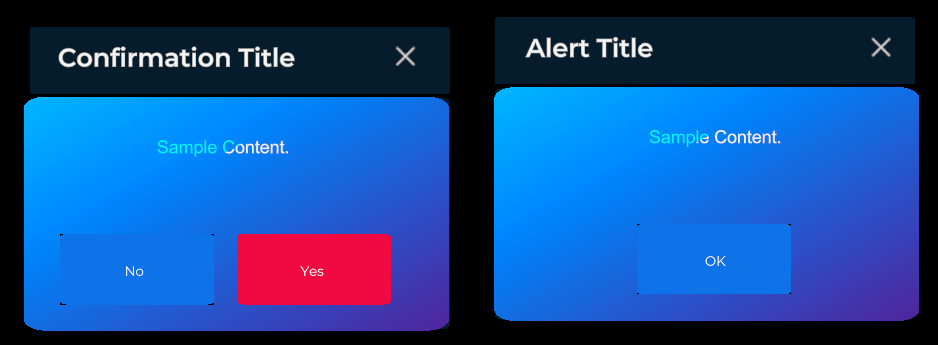
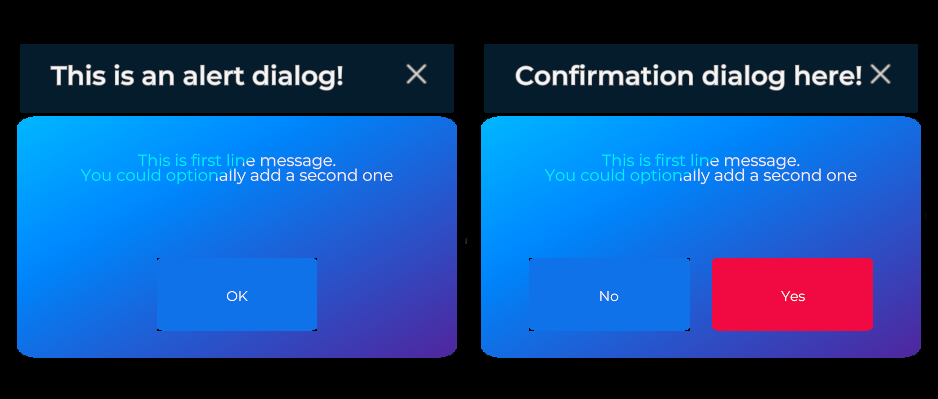
Completed Windows System documentation

diff --git a/manual/addons/xrv/ui/windows_system.md b/manual/addons/xrv/ui/windows_system.md
@@ -1,119 +1,217 @@
 # Windows System
 
-One of the main features that XRV offers is windows system. With windows system you can raise customizable Dialogs to inform the user or offer options.
+One of the main features that XRV offers is the _Windows System_, that helps you with built-in windows which contents can be customized by your own. It also includes built-in 
+alert and confirmation dialogs, that you can include within your UI logic to notify or ask for confirmation to application users, and execute some logic or another based on their decisions.
 
-![dialogs snapshot](images/windows_system_dialogs.png)
+![dialogs snapshot](images/windows_system_main.jpg)
 
-Windows system manages this dialogs and offer an uniform view and uniform use, for user supervised information.
+## Windows interaction
 
-You can also use windows system to create a window like view of your content, with all the functionalities, like close window or follow behavior.
+When a window is created, it will include some default buttons that allows users to modify window behavior or visibility.
+- Window position behavior can be changed, you can choose how window is placed relative to the user. To change position mode, just use window button to toggle between following behaviors:
+    - ![window follow](images/follow.png) Follow mode: window will follow the user wherever he moves if he goes away by a distance higher than 0.6 meters. In this mode, window will also change its orientation to face the user if he moves around.
+    - ![window pin](images/pin.png) Pinned mode: when switched to this mode, window will stay in the position and orientation that button has when pressed. In this mode, user can also manipulate position and orientation of the window, using pinch gesture on surface area of the window, including both title bar and contents area.
+- Press ![window close](images/close.png) to close the window.
 
-![help window](images/windows_system_help.png)
+## Create and show a window programmatically
 
-## Methods
-
-Windows system provides methods for create windows
-
-| Methods             | Description                                                                             |
-| ------------------- | --------------------------------------------------------------------------------------- |
-| `ShowAlertDialog`   | Shows alert dialog with title, content and text for the close button.                   |
-| `ShowConfirmDialog` | Shows a confirmation dialog with title, content and personalized text for yes/no button |
-| `CreateWindow`      | Shows a window with content.                                                            |
-
-| Properties  | Description                                                         |
-| ----------- | ------------------------------------------------------------------- |
-| `Distances` | You can set distance in meters where you want the window to appear. |
-
-## Examples
-
-### Get windows system anywhere
-
-Get windows system anywhere
+To create a window, you can do it accessing _Windows System_ that is exposed by _XrvService_. This window creation have a callback to configure the window, with different options that we will enumerate in section below. You can create as many windows as you want.
 
 ```csharp
-var windowSystem = Application.Current.Container.Resolve<XrvService>().WindowSystem;
-```
+var xrv = Application.Current.Container.Resolve<XrvService>();
+var windowSystem = xrv.WindowSystem;
 
-### Get Windows System in component
-
-````csharp
-[BindService]
-private XrvService xrvService = null;
-
-private windowSystem =>  xrvService.WindowSystem;
-```
-### Alert Dialog
-
-```csharp
-// create alert dialog
-var alertDelete = this.xrvService.WindowSystem.ShowAlertDialog("Alert Title", "Sample Content.", "OK");
-// Show dialog
-alertDelete.Open();
-````
-
-### Confirmation Dialog
-
-Show a confirmation dialog where we want the user to take a decision.
-
-```csharp
-// Create confirmation dialog
-var confirmDelete = this.xrvService.WindowSystem.ShowConfirmDialog("Confirmation Title", "Sample Content.", "No", "Yes");
-// Show dialog
-confirmDelete.Open();
-// Get Close event
-dialog.Closed += this.Dialog_Closed;
-```
-
-Now implement actions on decision.
-
-```csharp
-private async void Dialog_Closed(object sender, EventArgs e)
+// Setting Window
+var window = xrv.WindowSystem.CreateWindow(config =>
 {
-    var dialog = sender as ConfirmDialog;
-    dialog.Closed -= this.Dialog_Closed; // Remove callback.
-
-    if (dialog.Result != ConfirmDialog.AcceptKey)
-    {
-        // Accept action
-    }
-    else
-    {
-        // Reject  action
-    }
-}
-```
-
-### Window with content
-
-We have some content (entity) we want to appear inside a window.
-
-```csharp
- // Setting Window
-var window = this.xrv.WindowSystem.CreateWindow((config) =>
-{
-    config.Title = "Title"; // title for window
-    config.Size = new Vector2(150,70); // width height in meters
-    config.DisplayFrontPlate = false; // shows backplate
-    config.DisplayLogo = false; // shows logo
-    config.Content = entity; // content
+    config.Title = "Window #1";
+    config.Size = new Vector2(0.3, 0.2);
 });
 
-// Show window
+// Show window (empty in this case)
 window.Open();
 ```
 
-### Custom Distance
+Windows include different built-in parts and layers:
+- Title bar: this is on the top of the window, also contains action buttons on right side of the window.
+- Back plate: it has the same material than title bar, and the unique content that it includes is an optional logo image.
+- Front plate: it will be drawn over back plate, and is intended to be placed behind window contents.
 
-You want a window that appears at 0.5 meters in front of the user, we are going to need a to add a key to distances, for example "custom"
+![dialogs snapshot](images/windows_system_window_parts.jpg)
+
+### Window instance options
+Each window instance that is returned by _Windows System_ offers a set of options that developers can change by their own criteria. You can also open or close any window programmatically or subscribe to events about that window being opened or closed.
+
+| Properties             | Description                                                                             |
+| ------------------- | --------------------------------------------------------------------------------------- |
+| `AllowPin`   | If this option is disabled, default toggle button to let user change window positioning behavior that we commented above, will not be available for a window instance. |
+| `DistanceKey`   | This lets developers to specify the distance key that will be used to place window once opened. |
+| `EnableManipulation`   | When set to false, this option will not let users to change window orientation and positioning when pinned mode is active. |
+
+| Methods             | Description                                                                             |
+| ------------------- | --------------------------------------------------------------------------------------- |
+| `Open`   | Opens window instance. |
+| `Close`   | Closes window instance. |
+
+| Events             | Description                                                                             |
+| ------------------- | --------------------------------------------------------------------------------------- |
+| `Opened`   | It occurs when window instance is opened. |
+| `Close`   | It occurs when window instance is closed. |
+
+### Window instance configuration
+
+On configuration callback, you can use following properties to change how window is displayed.
+
+| Properties             | Description                                                                             |
+| ------------------- | --------------------------------------------------------------------------------------- |
+| `Content`   | This property lets you to set an entity that will be placed as window contents. Here you can set whatever you want: buttons, 3D text, images, etc. We will talk later about what is the easier way to layout your windows contents and how to set up window parameters like size to fits its contents. |
+| `DisplayFrontPlate`   | Front plate can be optionally hidden using this flag. |
+| `DisplayBackPlate`   | Back plate can be optionally hidden using this flag. |
+| `DisplayLogo`   | Controls logo visibility for the window. This image is located in bottom-left corner of the back plate. |
+| `FrontPlateOffsets`   | XY front plane offset relative to window back plate. |
+| `FrontPlateSize`   | Front plate width and height in meters. |
+| `LocalizedTitle`   | Lets you to specify callback function to set a [localized title](../localization.md) for the window. |
+| `LogoMaterial`   | To change default logo image, you can set your own material here. |
+| `Size`   | You can set window width and height in meters. |
+| `Title`   | Lets you to specify a fixed title string to your window. |
+
+
+### How-to: create own window with contents
+If you want to create your own window, you should first know the size of its contents, but calculating this manually could be tricky. We are going to quickly explain the steps we follow in this case.
+
+1. Create a new scene, that will contain your window contents. Window contents will be then exported to a prefab that will be loaded as window contents.
+2. Create a new mesh with _BorderlessFrontPlate_ material. This plane will be a help guide just to know how contents will fit in final window.
+3. Set _PlaneMesh_ width and height with desired size. 
+![windows how-to](images/windows_system_how-to.png)
+4. Create your window layout.
+5. Create a prefab from your contents entity. Do not include guide reference in the prefab, just _Painter_ entity in this case. Remember that you should not save your changes after creating the prefab.
+6. Instantiate your window from code, and set its size with same values as your reference.
 
 ```csharp
- // Add distance to Distances
-this.windowsSystem.Distances.SetDistance("custom", 0.5f);
+var contentsSize = new Vector2(0.214f, 0.173f);
+var window = windowsSystem.CreateWindow(config => 
+{
+    config.Size = contentsSize;
+    config.FrontPlateSize = contentsSize;
+    config.Content = this.assetsService.Load<Prefab>(<Prefab GUID here>).Instantiate();
+});
 ```
 
-Now configure the window to open with this distance key
+## Built-in dialogs
+
+_XRV_ also offers two built-in dialog types that you can use to request a user action before making a decision. An important thing here
+is that, unlike windows creation, there could only be a single instance of alert or confirmation dialog at the same time in the application. We limit this to
+avoid dialog stacks that would make users uncomfortable while using the application.
+
+- Alert dialog: this may be used to alert user about anything that happens while using the application, but where the user can choose no option, just confirm the dialog. 
+- Confirmation dialog: in this case, we can use this type of dialog to ask user for confirmation about an action, for example, removing a 3D model from virtual space.
+
+Here you have an example of how use _Windows System_ to show an alert or confirmation dialog.
 
 ```csharp
+var dialog = windowsSystem.ShowConfirmationDialog(...); // or ShowAlertDialog
+dialog.Closed += Dialog_Closed;
+
+private void Dialog_Closed(object sender, EventArgs e)
+{
+    if (dialog is ConfirmDialog confirm)
+    {
+        dialog.Closed -= this.Dialog_Closed;
+
+        if (confirm.Result == confirm.AcceptOption.Key)
+        {
+            // Do something only if user taps on accept option            
+        }
+    }
+}
+```
+In the sample, you can notice that we are subscribing to _Closed_ event. This is safe as long as you do event unsubscription in callback method, as we only allow a single dialog opened at the time. This means, if we have other part of the code that has already opened a dialog an is waiting for the response, this new dialog opening will provoke _Closed_ event to be invoked for that previously executed code.
+
+_XRV_ dialogs have a property named _Result_ that you can check to know which button has been pressed by the user.
+
+**Alert dialog**
+
+| Result value             | It                                                                             |
+| ------------------- | --------------------------------------------------------------------------------------- |
+| AlertDialog.AcceptKey | When user presses dialog _Accept_ button. |
+| _null_ | When user presses dialog _Close_ button, or other part of the code invokes _ShowAlertDialog_. |
+
+**Confirmation dialog**
+
+| Result value             | It                                                                             |
+| ------------------- | --------------------------------------------------------------------------------------- |
+| ConfirmationDialog.AcceptKey | When user presses dialog _Accept_ button. |
+| ConfirmationDialog.CancelKey | When user presses dialog _Cancel_ button. |
+| _null_ | When user presses dialog _Close_ button, or other part of the code invokes _ShowConfirmationDialog_. |
+
+## Other things that you can do with _Windows System_
+_Windows System_ instance also provide two properties that may be helpful for developers:
+
+| Properties             | Description                                                                             |
+| ------------------- | --------------------------------------------------------------------------------------- |
+| `Distances`   | You can register or modify predefined window distances. |
+| `OverrideIconMaterial`   | This property allows to you to set a custom Material that will override default window logo material. So, you don't need to go instance by instance replacing default logo material. |
+
+### Window distances definition
+_XRV_ provides a set of predefined window distances, but you can add as many as you want to your application.
+
+| Distance key            | Value (in meters) | Usage                                                           |
+| ------------------- | --------------------------------------------------------------------------------------- |
+| `NearKey`   | 0.4 | This is the distance used by default for alert and confirmation dialogs. |
+| `MediumKey`   | 0.6 | This is the distance used by default for rest of the windows. |
+| `FarKey`   | 1 | This is not used at all by built-in elements of _XRV_ but you can use it by your own purpose. |
+
+To override or add a new distance, you can use _SetDistance_ method.
+
+```csharp
+// override an existing key
+windowsSystem.Distances.SetDistance(Xrv.Core.UI.Windows.Distances.NearKey, 0.45f);
+
+// adding a new key
+windowsSystem.Distances.SetDistance("custom", 0.5f);
+
+// use distance key in a window
 window.DistanceKey = "custom";
-window.Open(); // Window will open at distance 0.5 meters from headset
+```
+
+## Examples
+
+### Get Windows System in component
+
+```csharp
+public MyComponent : Component 
+{
+    [BindService]
+    private XrvService xrvService = null;
+
+    private windowSystem =>  xrvService.WindowSystem;
+
+    private void ShowAlert()
+    {
+        var dialog = this.windowSystem.ShowAlertDialog("Alert Title", "Sample Content.", "OK");
+        dialog.Closed += this.OnAlertClosed();
+    }
+
+    private void ShowConfirmation()
+    {
+        var dialog = this.windowSystem.ShowConfirmationDialog("Confirmation Title", "Sample Content.", "No", "Yes");
+        dialog.Closed += this.OnConfirmationClosed();
+    }
+
+    private void OnAlertClosed(object sender, EventArgs e)
+    {
+        if (sender is AlertDialog dialog) 
+        {
+            dialog.Closed -= this.OnAlertClosed();
+        }
+    }
+
+    private void OnConfirmationClosed(object sender, EventArgs e)
+    {
+        if (sender is ConfirmationDialog dialog) 
+        {
+            dialog.Closed -= this.OnConfirmationClosed();
+        }
+    }
+}
 ```

diff --git a/manual/addons/xrv/ui/index.md b/manual/addons/xrv/ui/index.md
@@ -1,7 +1,7 @@
 # UI
 
 ---
-// TODO:
+XRV provides some built-in components and artifacts that makes life easier to developer about creating uniform and consistent user interfaces.
 
 ## In this section
 

diff --git a/manual/addons/xrv/localization.md b/manual/addons/xrv/localization.md
@@ -1,0 +1,1 @@
+# Localization
